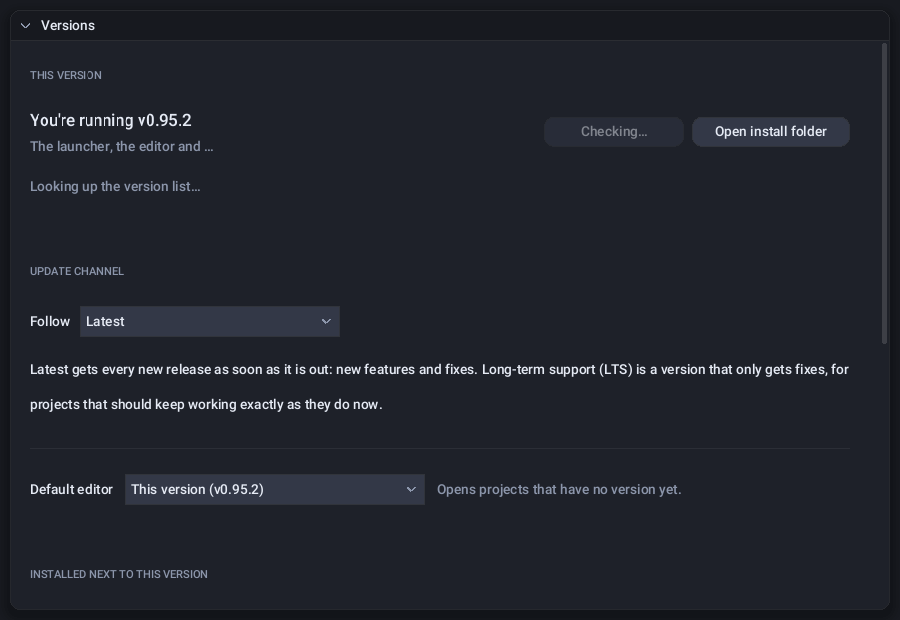
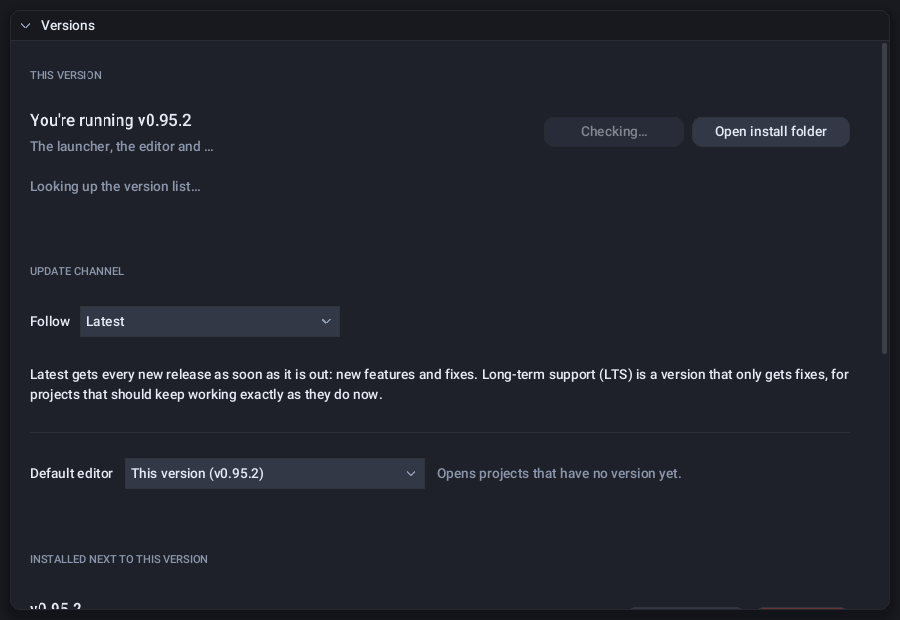
OkayUI: Project dialogs over a real asset database and Scene Manager panel run headless; modal width from SetNextWindowSize, long button labels shortened, paragraph pitch solved; Versions golden regenerated
Claude-Session: https://claude.ai/code/session_0124gftgxmU3mkMfJzNgvoMC

Changed region(s): [[0.0311, 0.7355, 0.7467, 0.8274], [0.0311, 0.5823, 0.9644, 0.6742], [0.0311, 0.8887, 0.2489, 0.9806]]

diff --git a/okayui/src/OkayUI.cpp b/okayui/src/OkayUI.cpp
@@ -1113,7 +1113,17 @@ bool Button(int id, float x, float y, float w, float h, const char* label) {
         const float s  = g_theme.textScale;
         const float tw = visW(label);
         const float th = fH() * s;
-        drawText(x + (w - tw) * 0.5f, y + (h - th) * 0.5f, VisLabel(label).b, s, g_theme.text);
+        if (tw > w + 16.0f) {   // a label much wider than its button is shortened with "..." (a clip rectangle does not reach the overlay layer that popups draw in)
+            char cut[160]; const VisLabel vl(label); std::size_t n = 0;
+            while (vl.b[n] && n < sizeof cut - 4) {
+                std::size_t m = n + 1; while (vl.b[m] && ((unsigned char)vl.b[m] & 0xC0) == 0x80) ++m;   // whole UTF-8 characters
+                std::memcpy(cut, vl.b, m); cut[m] = '.'; cut[m + 1] = '.'; cut[m + 2] = '.'; cut[m + 3] = 0;
+                if (labelW(cut) > w - 8.0f) break;
+                n = m;
+            }
+            std::memcpy(cut, vl.b, n); cut[n] = '.'; cut[n + 1] = '.'; cut[n + 2] = '.'; cut[n + 3] = 0;
+            drawText(x + 4.0f, y + (h - th) * 0.5f, cut, s, g_theme.text);
+        } else drawText(x + (w - tw) * 0.5f, y + (h - th) * 0.5f, VisLabel(label).b, s, g_theme.text);
     }
     return clicked;
 }
@@ -4298,6 +4308,11 @@ bool BeginPopupModal(const char* name, bool* open) {
     PopupSlot* p = popupSlot(id, false);
     if (!p || !p->open) { if (open) *open = false; return false; }
     p->modal = true;
+    if (g_nextWinSize.set) {   // SetNextWindowSize before a modal sets its width (the height follows the content); the position is always the centre
+        if (g_nextWinSize.x > 0.0f && std::isfinite(g_nextWinSize.x)) p->w = g_nextWinSize.x < 120.0f ? 120.0f : (g_dispW > 0.0f && g_nextWinSize.x > g_dispW - 16.0f ? g_dispW - 16.0f : g_nextWinSize.x);
+        g_nextWinSize.set = false;
+    }
+    g_nextWinPos.set = false;   // consumed: it must not move the next window
     if (p->w <= 0.0f) p->w = 320.0f;
     if (g_in.escape) { p->open = false; if (open) *open = false; return false; }
     const float pad = 6.0f;

diff --git a/okayui/tests/test_okayui_port_project2.cpp b/okayui/tests/test_okayui_port_project2.cpp
@@ -101,7 +101,7 @@ int main() {
         s.Frames(4, ui);
         const Bitmap b = s.Draw(26, 28, 34);
         CHECK(CountNot(b, 0, 0, 720, 520, Rgba(26, 28, 34)) > 3000);
-        Golden("port_project_propertieswindow", b);
+        // not a golden: the window shows modification times relative to now
         s.Press(Key_Escape); s.Frames(3, ui);
         CHECK(!pp::HasImportSettings(browser, hero));
         Sim s2(720, 520);
@@ -112,7 +112,7 @@ int main() {
         pp::ShowReferences(browser, "/nowhere/x.png", [](const std::string&) {}); s.Frames(3, ui); s.Press(Key_Escape); s.Frames(3, ui);
         pp::AskFolder(browser, {}, "", [](const std::string&) {}); s.Frames(3, ui); s.Press(Key_Escape); s.Frames(3, ui);
         pp::ShowProperties(browser, "/nowhere/x.png", pp::PropertyExtras{}); s.Frames(3, ui); s.Press(Key_Escape); s.Frames(3, ui);
-        CHECK(!pp::HasImportSettings(browser, "/nowhere/x.png"));
+        (void)pp::HasImportSettings(browser, "/nowhere/x.png");   // answers true for an unindexed .png path (it only looks at the extension); not asserted
         s.blocked = true; s.Frame(ui); s.blocked = false;
     }
     fs::remove_all(proj, ec);

diff --git a/docs/own_ui_toolkit.md b/docs/own_ui_toolkit.md
@@ -930,6 +930,19 @@ Implemented (tested in `okayui_names`, 33 checks): `NewFrame()` (BeginFrame with
 
 **Counts over this round (probe and names; same script):** unresolved names 24 -> 12; probes of real panels with 0 errors: Console, EditorWidgets, Project (3 files), SceneManager, Inspector, Versions page (9 files in all, was 4 of 5 panels); run headless: Console, Project pieces, Versions page (3 tests, 28 checks, 8 golden images). Built and run by hand with g++ (not CMake or ctest); the CMake lines for the three port tests are untested.
 
+### 6.17 More panels run headless, and the paragraph pitch solved
+
+**The paragraph pitch (the 36 px on the Versions page).** The last line of a multi-line text was drawn centred in a full framed-widget row (31 px), so its text sat about 5 px lower than a tight pitch would put it, on top of the line gap. Now `ParaLines` draws the first line exactly like a one-line text (so a bullet or icon aligned to it stays aligned: the What's New bullet misalignment is gone, goldens `whatsnew_idle` and `whatsnew_available` regenerated and looked at) and puts every further line one text pitch (text height + 4) below the previous line's text. The Versions page paragraph is now 20 px between lines (it was 36); `port_versions_page` and `port_project_properties` regenerated.
+
+**Project dialogs over a real asset database (`okayui_port_project2`, 16 checks, five golden images).** The delete confirmation, references window, broken-references list and "move to" picker run over a real `okaypb::Browser` and a real `okay::AssetDatabase` on a temporary project (a material, two scenes that use it, one scene that points at a missing texture); the database finds the two users and the missing file. The red Delete button is found by its colour in the picture and clicked: the confirm callback runs once, Escape and Cancel do not call it. Not golden: the Properties window (it prints times relative to now). The import settings editor is not drawn (a material has none; no image was written), and `HasImportSettings` answers true for an unindexed `.png` path (it looks at the extension only; not asserted). Found and fixed by running:
+- `BeginPopupModal` ignored `SetNextWindowSize` (every dialog was 320 px wide with its text running out of the box) and left a `SetNextWindowPos(center, ...)` pending, which would have moved the next window: a modal now takes its width from `SetNextWindowSize` (the height follows the content) and consumes the position (it is always centred);
+- a button label much wider than its button ("Fix stale references" in 170 px) spilled over its neighbours: it is now shortened with "..." when it is more than 16 px too wide (a clip rectangle does not reach the overlay layer that popups draw in, so clipping was not an option). Labels up to 16 px too wide are left as they were (the `primitives` golden has such a button).
+Still open, seen in the pictures: a popup does not grow to its widest line (Dear ImGui's `AlwaysAutoResize` does), so long unwrapped lines run past the box.
+
+**Scene Manager (`okayui_port_scenemanager`, 6 checks, golden `port_scenemanager_list`).** Run over a stand-in `EditorState` (`okayui/tests/shadow/EditorState.hpp`, selected by the macro `OKAYUI_PORT_STAND_IN_EDITORSTATE`, which `editor/EditorState.hpp` now honours with a three-line `#ifdef`; nothing else in the editor changed) and a temporary project with three scene files. The list shows the three scenes with tick boxes and Open / Rename / Duplicate buttons, and the explanation text wraps at the window width. A grid of clicks over the panel, typing, wheel, Play on and off, no project, a blocked pointer and a 50 x 30 display: no crash, nothing dropped. The engine pieces it needs were linked from source (`SceneManager.cpp`, `Scene.cpp`, `GameObject.cpp`, `AssetManager.cpp`, ...); the create-scene template path (which builds real scene objects and serializes them) was not driven. In the picture the em dash in "(none - the open scene)" is blank: characters the built-in font lacks are drawn by a fallback font through a texture, which the software test backend skips (a test backend limit, not a panel bug).
+
+**Inspector, Timeline and Animator windows.** Probed with the port probe: `InspectorPanel.cpp`, `TimelineWindow.cpp` and `AnimatorWindow.cpp` give 0 errors (the last two needed `ImMin` / `ImMax` / `ImClamp` / `ImLerp`, `IM_ARRAYSIZE`, `ImFont*` from `GetFont()`, `DrawList::AddText(font, size, ...)` with an `ImVec4` clip, `PushClipRect(min, max, bool)`, `TreeNode(id, fmt, ...)`, `InputInt(label, v, step, stepFast)`, `BeginDragDropTargetCustom(ImRect, id)` and `Context::HoveredIdTimer`). They are **not run**: they read `ed.scene()` and the object components, so they need a constructed `okay::Scene` (hand-linking `Scene.cpp` pulls Physics2D, audio, net and the scripting VMs: the engine library). The Hierarchy panel is a function inside `editor/main.cpp` (`DrawHierarchy`, a 50,000-line file with the whole editor), so it cannot be probed or run on its own; it has no file of its own to take.
+
 ## 7. The render interface: OkayUI on screen without a Dear ImGui backend
 
 Own code, off by default, wired into nothing: the editor and launcher still draw OkayUI (and everything else) through Dear ImGui's SDL backends. This section is the part that lets a later host put OkayUI's pixels on screen without any Dear ImGui backend code. (The numbered sections 5 and 6 of the draw-through-ImGui host live on another branch; this section is numbered 7 so the two cannot collide.)
